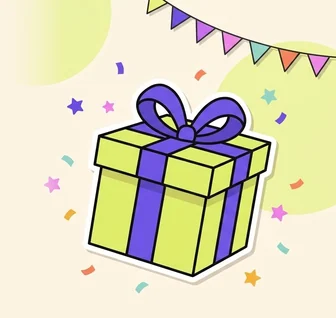
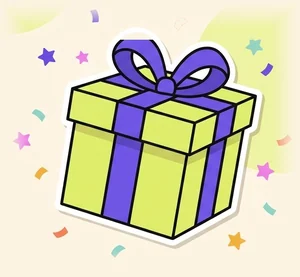
fix(profile): гирлянда плитки «Хочешь подарок?» привязана к углу

diff --git a/frontend/app/assets/main.css b/frontend/app/assets/main.css
@@ -4215,23 +4215,28 @@ button.org-unit-head--link:hover {
 }
 
 /* Иллюстрация из Gemini (WISHLIST_REMINDER_ART_ENABLED в utils/profileWishlistReminder.ts).
-   Файл — правая часть арта (подарок + флажки, 336×318, левый край растушёван в крем #fcf3e2).
-   Картинка ≤ 42% ширины плитки, прижата вправо-вниз: слева остаётся чистый крем под текст. Под картинкой — мягкие
-   CSS-круги и крем: если файл не загрузится, плитка всё равно «уютная». */
+   Картинка — только подарок с конфетти (300×277, края растушёваны в крем #fcf3e2), отдельный <img>
+   справа-внизу: не шире 40% и не выше 72% плитки (на широкой низкой плитке 1920 не упирается в верх
+   и не залезает под гирлянду). Гирлянда — отдельный SVG, привязанный к верхнему и правому краю.
+   Фон — крем и мягкие CSS-круги: если файл не загрузится, плитка всё равно оформлена. */
 .profile-stat-tile--wish-reminder.profile-stat-tile--wish-reminder-art {
   padding-top: 16px;
   background:
-    url('/images/profile/wishlist-reminder.jpg') right bottom / min(42%, 108px) auto no-repeat,
     radial-gradient(circle at 44% -12%, rgba(221, 243, 101, 0.5) 0 30px, transparent 31px),
     radial-gradient(circle at -2% 108%, rgba(253, 129, 255, 0.2) 0 28px, transparent 29px),
     #fcf3e2;
-  background-image:
-    image-set(
-      url('/images/profile/wishlist-reminder.webp') type('image/webp'),
-      url('/images/profile/wishlist-reminder.jpg') type('image/jpeg')
-    ),
-    radial-gradient(circle at 44% -12%, rgba(221, 243, 101, 0.5) 0 30px, transparent 31px),
-    radial-gradient(circle at -2% 108%, rgba(253, 129, 255, 0.2) 0 28px, transparent 29px);
+}
+
+.profile-stat-tile__wish-art-img {
+  position: absolute;
+  right: 0;
+  bottom: 0;
+  width: auto;
+  height: auto;
+  max-width: 40%;
+  max-height: 72%;
+  pointer-events: none;
+  z-index: 0;
 }
 
 .profile-stat-tile--wish-reminder.profile-stat-tile--wish-reminder-art .profile-stat-tile__value--wish {
@@ -4243,6 +4248,16 @@ button.org-unit-head--link:hover {
 .profile-stat-tile--wish-reminder.profile-stat-tile--wish-reminder-art .profile-stat-tile__label--wish {
   max-width: 52%;
   margin-top: 4px;
+}
+
+.profile-stat-tile__wish-corner-bunting {
+  position: absolute;
+  top: 0;
+  right: 0;
+  width: 58px;
+  height: 32px;
+  pointer-events: none;
+  z-index: 1;
 }
 
 .profile-stat-tile__wish-bunting {

diff --git a/frontend/app/pages/profile/index.vue b/frontend/app/pages/profile/index.vue
@@ -165,6 +165,34 @@
           aria-label="Хочешь подарок? Заполни вишлист — откроются настройки профиля"
           @click="openSettings('wishlist')"
         >
+          <!-- Гирлянда привязана к краям плитки: левый конец — верхний край, правый — правый край -->
+          <svg
+            v-if="WISHLIST_REMINDER_ART_ENABLED"
+            class="profile-stat-tile__wish-corner-bunting"
+            viewBox="0 0 58 32"
+            fill="none"
+            aria-hidden="true"
+          >
+            <path d="M0 0.8 Q22 19 58 22" stroke="#202020" stroke-width="1.3" />
+            <g stroke="#202020" stroke-width="1.1" stroke-linejoin="round">
+              <path d="M16.6 11.4 L23.2 14.3 L20.4 22.4 Z" fill="#7451f4" />
+              <path d="M26.1 15.4 L33.3 17.7 L30.2 26.1 Z" fill="#fd81ff" />
+              <path d="M36.4 18.5 L44.2 20.2 L40.8 28.9 Z" fill="#9fd6c9" />
+              <path d="M47.5 20.8 L55.9 21.8 L52.2 30.8 Z" fill="#ee815a" />
+            </g>
+          </svg>
+          <picture v-if="WISHLIST_REMINDER_ART_ENABLED">
+            <source srcset="/images/profile/wishlist-reminder.webp?v=2" type="image/webp" />
+            <img
+              class="profile-stat-tile__wish-art-img"
+              src="/images/profile/wishlist-reminder.jpg?v=2"
+              alt=""
+              aria-hidden="true"
+              width="300"
+              height="277"
+              decoding="async"
+            />
+          </picture>
           <template v-if="!WISHLIST_REMINDER_ART_ENABLED">
             <svg
               class="profile-stat-tile__wish-bunting"

diff --git a/docs/CHANGELOG.md b/docs/CHANGELOG.md
@@ -4,6 +4,13 @@
 
 ## 2026-10-21
 
+### Плитка «Хочешь подарок?»: гирлянда привязана к углу
+
+- Гирлянда больше не часть картинки (раньше один её конец висел в воздухе посреди плитки). Теперь это отдельный SVG в правом верхнем углу: шнурок начинается на верхнем крае плитки и заканчивается на правом, 4 флажка (фиолетовый, розовый, мятный, оранжевый, как в арте), над текстом не нависает.
+- Картинка `wishlist-reminder.{webp,jpg}` (`?v=2`) пересобрана из исходника Gemini: только подарок с конфетти (300×277, 12/16 КБ), остатки флажков закрашены, края растушёваны в крем. Вместо CSS-фона — `<picture>`-картинка справа-внизу: не шире 40% и не выше 72% плитки, поэтому на широкой низкой плитке (1920 → 254×87) подарок не упирается в верх и не залезает под гирлянду.
+- Файлы: `frontend/app/pages/profile/index.vue`, `frontend/app/assets/main.css` (`.profile-stat-tile__wish-corner-bunting`, `.profile-stat-tile__wish-art-img`), `frontend/public/images/profile/wishlist-reminder.{webp,jpg}`.
+- Как проверить (:8080): свой профиль с пустым вишлистом на 1280/1440/1920 и телефоне — флажки висят от верхнего края к правому, текст и подарок не перекрываются.
+
 ### Сжаты картинки ачивок
 
 - `kalendar-otpuskov.png` (745 → 44 КБ) и `sales-best.png` (889 → 21 КБ): 512×512, палитра 256 цветов, прозрачность сохранена. Пути не менялись.
